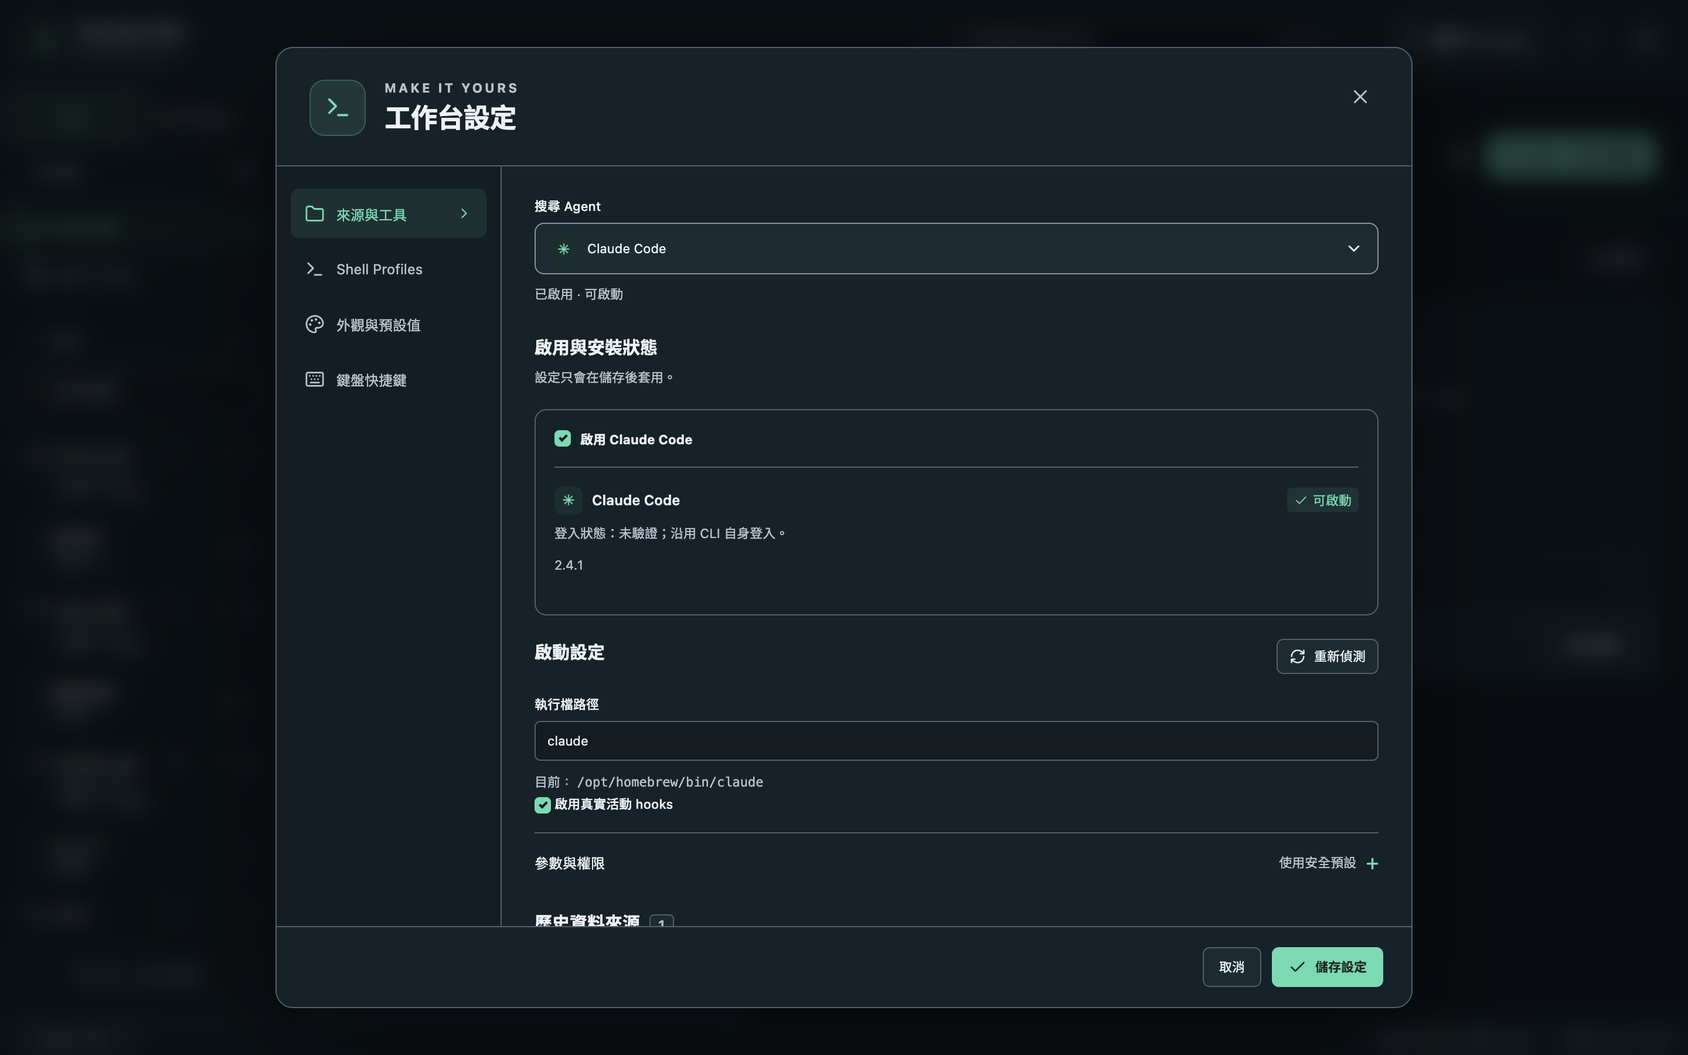
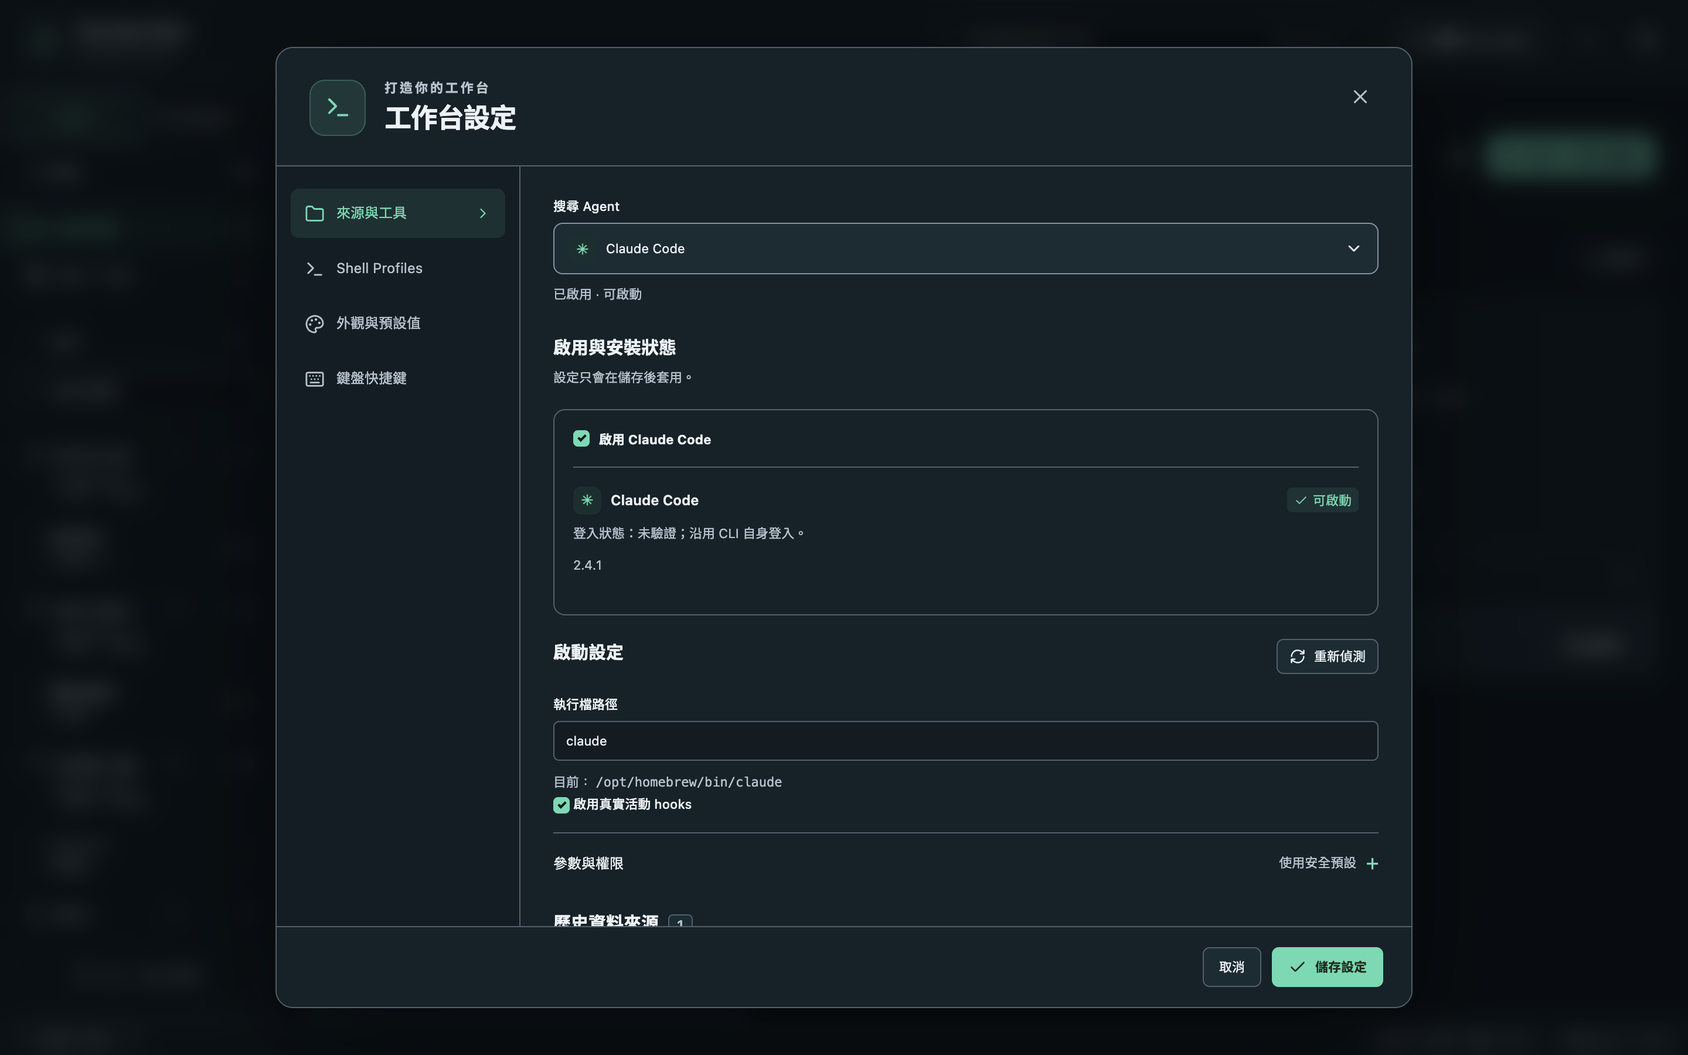
fix(ui): keep both languages readable at every window width
Add a layout audit that opens fifteen screens in English and Traditional
Chinese at 1440, 1280 and 1024 px and fails when control text is clipped
or spills out. Fix what it found: a shorter English label for the
Directories tab, wrapping overview statuses and settings navigation,
room for expanded history filters, the untranslated settings eyebrow, a
missing shortcut name, the empty shortcut chip in the command palette,
the outdated page name in the add-project hint and spacing in the
recycle bin. Regenerate every website screenshot and add one of the Git
workbench.

diff --git a/tests/browser/layout-audit.spec.ts b/tests/browser/layout-audit.spec.ts
@@ -1,0 +1,111 @@
+import { expect, test, type Page } from '@playwright/test';
+import { mkdirSync, writeFileSync } from 'node:fs';
+
+// Opens every main screen in English and Traditional Chinese at several window
+// widths and fails when a control's text is clipped or spills out of its box.
+// Long user data (paths, titles) may truncate with an ellipsis when a tooltip
+// carries the full text. Set LAYOUT_AUDIT_DIR to also save screenshots.
+const zh = () => test.info().project.name === 'zh-tw';
+const L = (en: string, zhText: string) => (zh() ? zhText : en);
+const widths = [1440, 1280, 1024];
+const bridge = 'http://127.0.0.1:1463';
+
+async function open(page: Page, git = false) {
+  await page.goto(`/tests/browser/showcase.html${git ? `?git=${encodeURIComponent(bridge)}` : ''}`);
+  await expect(page.locator('[data-app-shell]')).toHaveAttribute('data-backend-ready', 'true');
+}
+
+async function clippedText(page: Page) {
+  return page.evaluate(() => {
+    const selector = 'button, a, [role="tab"], [role="menuitem"], [role="option"], [role="radio"], label, legend, summary, h1, h2, h3, h4, th, dt, small, .settings-status, .git-chip, .eyebrow, .overview-status';
+    const found: string[] = [];
+    for (const el of document.querySelectorAll<HTMLElement>(selector)) {
+      const style = getComputedStyle(el);
+      const box = el.getBoundingClientRect();
+      if (!box.width || !box.height || style.display === 'inline' || style.visibility === 'hidden') continue;
+      if (el.closest('.xterm, .monaco-editor, [aria-hidden="true"]')) continue;
+      const clipped = el.scrollWidth > el.clientWidth + 1 || (style.overflowY !== 'visible' && el.scrollHeight > el.clientHeight + 1);
+      if (!clipped) continue;
+      if (style.textOverflow === 'ellipsis' && el.closest('[title]')) continue;
+      const text = (el.innerText || el.getAttribute('aria-label') || '').replace(/\s+/g, ' ').trim().slice(0, 80);
+      found.push(`${el.tagName.toLowerCase()}${el.className ? '.' + String(el.className).trim().split(/\s+/).join('.') : ''} "${text}" (${el.scrollWidth}>${el.clientWidth})`);
+    }
+    if (document.documentElement.scrollWidth > innerWidth + 1) found.push(`page scrolls horizontally (${document.documentElement.scrollWidth}>${innerWidth})`);
+    return [...new Set(found)];
+  });
+}
+
+type View = [name: string, show: (page: Page) => Promise<void>, git?: boolean];
+const settings = (section: [string, string]) => async (page: Page) => {
+  await page.getByRole('button', { name: L('Settings and sources', '設定與資料來源') }).click();
+  await page.getByRole('dialog').getByRole('button', { name: L(...section) }).first().click();
+};
+const views: View[] = [
+  ['projects', async () => undefined],
+  ['directories', async page => { await page.locator('#navigation-directories').click(); }],
+  ['history', async page => {
+    await page.locator('.directory-card-main').first().click();
+    await page.getByRole('button', { name: L('Sessions', '歷史 Sessions'), exact: true }).first().click();
+    await page.locator('.session-card-select').first().click();
+    await expect(page.locator('.transcript-message').first()).toBeVisible();
+  }],
+  ['history-filters', async page => {
+    await page.locator('.directory-card-main').first().click();
+    await page.getByRole('button', { name: L('Sessions', '歷史 Sessions'), exact: true }).first().click();
+    await page.getByRole('button', { name: L('Filter', '篩選') }).click();
+  }],
+  ['terminals', async page => {
+    await page.getByRole('button', { name: L('Open workspace harbor-api Rate limiting', '開啟工作區 harbor-api 速率限制') }).click();
+    await expect(page.locator('.xterm-screen').first()).toBeVisible();
+  }],
+  ['overview', async page => { await page.locator('.sidebar-global', { hasText: L('All workspaces', '全部工作區') }).click(); }],
+  ['settings-sources', settings(['Sources and tools', '來源與工具'])],
+  ['settings-profiles', settings(['Shell Profiles', 'Shell Profiles'])],
+  ['settings-appearance', settings(['Appearance and defaults', '外觀與預設值'])],
+  ['settings-shortcuts', settings(['Keyboard shortcuts', '鍵盤快捷鍵'])],
+  ['new-work', async page => {
+    await page.locator('.directory-card-main').first().click();
+    await page.locator('.header-buttons').getByRole('button', { name: L('New work', '新增工作') }).click();
+    await expect(page.getByRole('dialog')).toBeVisible();
+  }],
+  ['add-project', async page => { await page.getByRole('button', { name: L('Add / create project', '加入／建立專案') }).first().click(); }],
+  ['recycle-bin', async page => {
+    await page.locator('.directory-card-main').first().click();
+    await page.getByRole('button', { name: L('Recycle bin', '資源回收筒') }).click();
+    await expect(page.getByRole('dialog')).toBeVisible();
+  }],
+  ['command-palette', async page => {
+    await page.getByRole('button', { name: L('Search projects or run a command', '搜尋專案或執行命令') }).click();
+  }],
+  ['files', async page => {
+    await page.locator('.directory-card-main').first().click();
+    await page.getByRole('button', { name: 'Files', exact: true }).first().click();
+    await page.getByRole('treeitem', { name: /README\.md/ }).click();
+  }],
+  ['git', async page => {
+    await page.getByRole('button', { name: L('Open workspace harbor-api Rate limiting', '開啟工作區 harbor-api 速率限制') }).click();
+    await page.locator('.workspace-activity-bar').getByRole('button', { name: 'Git', exact: true }).click();
+    await expect(page.locator('#activity-git-panel').getByRole('radiogroup')).toBeVisible();
+  }, true],
+];
+
+for (const [name, show, git] of views) {
+  test(name, async ({ page, request }) => {
+    if (git) await request.post(`${bridge}/reset`);
+    const problems: string[] = [];
+    for (const width of widths) {
+      await page.setViewportSize({ width, height: 860 });
+      await open(page, git);
+      await show(page);
+      await page.waitForTimeout(400);
+      const dir = process.env.LAYOUT_AUDIT_DIR;
+      if (dir) {
+        mkdirSync(`${dir}/${test.info().project.name}`, { recursive: true });
+        await page.screenshot({ path: `${dir}/${test.info().project.name}/${name}-${width}.png` });
+      }
+      for (const problem of await clippedText(page)) problems.push(`${width}px ${problem}`);
+    }
+    if (process.env.LAYOUT_AUDIT_DIR) writeFileSync(`${process.env.LAYOUT_AUDIT_DIR}/${test.info().project.name}-${name}.txt`, problems.join('\n'));
+    expect(problems).toEqual([]);
+  });
+}

diff --git a/tests/browser/showcase.tsx b/tests/browser/showcase.tsx
@@ -168,6 +168,19 @@ const bootstrap: Bootstrap = {
   index: { running: false, processed: 1284, total: 1284, cancelled: false, errors: [], sources: [] },
 };
 
+const fileText = (path: string) => new TextEncoder().encode(path.endsWith('rateLimit.ts') ? [
+  "import { buckets } from './buckets';",
+  '',
+  'export function rateLimit({ capacity = 60, refillPerSecond = 1 } = {}) {',
+  '  return async (req, res, next) => {',
+  '    const bucket = await buckets.take(req.apiKey, { capacity, refillPerSecond });',
+  '    if (!bucket.ok) return tooManyRequests(res, bucket.retryAfter);',
+  '    next();',
+  '  };',
+  '}',
+  '',
+].join('\n') : `# ${path}\n\nSynthetic showcase file.\n`);
+
 mockWindows('main');
 mockIPC((command, payload = {}) => {
   const args = payload as Record<string, unknown>;
@@ -190,7 +203,40 @@ mockIPC((command, payload = {}) => {
       messages: transcript.map(([role, text], index) => ({ role, text, timestamp: ago(20 - index * 2), line: index + 1 })),
       hasMore: false, beforeLine: null, stale: false, warning: null,
     };
-    case 'list_trashed_sessions': return { items: [], total: 0 };
+    case 'list_trashed_sessions': return { catalogRevision: 'showcase', total: 1, items: [{
+      id: 'trash-1', session: { ...sessions[4], id: 's-trashed', title: L('Try a different logging library', '試用另一套 logging 函式庫') },
+      sourceRoot: '/Users/you/.codex', deletedAt: ago(60 * 3), unavailableReason: null }] };
+    case 'detect_history_sources': return { kind: args.kind, supported: true, message: null, candidates: [
+      { kind: args.kind, root: settings.sources.find(s => s.kind === args.kind)?.root ?? '/Users/you/.agent', status: 'found', configured: true, configuredSourceIds: [String(args.kind)] }] };
+    case 'preview_launch': {
+      const request = args.request as { kind: string; cwd?: string };
+      return { executable: request.kind === 'shell' ? '/bin/zsh' : `/opt/homebrew/bin/${request.kind}`, args: request.kind === 'shell' ? ['-l'] : [], cwd: request.cwd || `${home}/harbor-api` };
+    }
+    case 'list_workspace_files': return { nextOffset: null, entries: args.path ? [
+      { name: 'rateLimit.ts', path: 'src/http/rateLimit.ts', kind: 'file' },
+      { name: 'middleware.ts', path: 'src/http/middleware.ts', kind: 'file' },
+    ] : [
+      { name: 'src', path: 'src', kind: 'directory' }, { name: 'config', path: 'config', kind: 'directory' },
+      ...['README.md', 'package.json', 'tsconfig.json'].map(name => ({ name, path: name, kind: 'file' })),
+    ] };
+    case 'search_workspace_files': return { paths: ['src/http/rateLimit.ts', 'README.md'], truncated: false };
+    case 'inspect_workspace_file': {
+      const bytes = fileText(String(args.path));
+      return { path: args.path, sizeBytes: bytes.length, version: `showcase:${args.path}`, kind: 'text' };
+    }
+    case 'read_workspace_file_chunk': {
+      const bytes = fileText(String(args.path));
+      const offset = Number(args.offset), end = Math.min(bytes.length, offset + Number(args.maxBytes));
+      return { bytes: Array.from(bytes.subarray(offset, end)), eof: end === bytes.length };
+    }
+    case 'git_request': case 'git_hosting': {
+      // Optional real Git over a synthetic repo (examples/git_bridge.rs), as in the Git browser specs.
+      const bridge = params.get('git');
+      if (!bridge) throw new Error('Git is not part of this showcase view');
+      return fetch(`${bridge}/${command === 'git_request' ? 'git' : 'hosting'}`, { method: 'POST', headers: { 'content-type': 'application/json' }, body: JSON.stringify(args.request) })
+        .then(response => response.json() as Promise<{ ok?: unknown; error?: string }>)
+        .then(result => { if (result.error !== undefined) throw result.error; return result.ok; });
+    }
     case 'list_os_trashed_sessions': return [];
     case 'attach_runtime': {
       const target = runtimes.find(r => r.id === args.runtimeId)!;

diff --git a/src/components/workspace-overview.css b/src/components/workspace-overview.css
@@ -18,9 +18,9 @@
 .overview-card-open:hover { background: var(--surface-hover); }
 .overview-card-open:focus-visible { outline: 2px solid var(--accent); outline-offset: -2px; }
 .overview-card .project-initials { background: var(--card-project); }
-.overview-card-head { display: flex; align-items: center; gap: 8px; min-width: 0; }
+.overview-card-head { display: flex; flex-wrap: wrap; align-items: center; gap: 6px 8px; min-width: 0; }
 .overview-card-project { flex: 1; min-width: 0; overflow: hidden; text-overflow: ellipsis; white-space: nowrap; font-size: 13px; font-weight: 600; }
-.overview-status { flex: 0 0 auto; max-width: 50%; overflow: hidden; text-overflow: ellipsis; white-space: nowrap; padding: 1px 8px; border-radius: 10px; font-size: 11px; color: var(--muted); background: var(--surface-hover); }
+.overview-status { flex: 0 1 auto; max-width: 100%; overflow-wrap: anywhere; padding: 1px 8px; border-radius: 8px; line-height: 1.5; font-size: 11px; color: var(--muted); background: var(--surface-hover); }
 .overview-status.attention-input { color: var(--warning); background: var(--warning-bg); font-weight: 600; }
 .overview-status.attention-error { color: var(--danger); background: var(--danger-bg); }
 .overview-status.attention-working { color: var(--accent); background: var(--accent-bg); }
@@ -36,5 +36,7 @@
 .overview-split-hint { font-size: 12px; color: var(--muted); }
 .overview-split button { display: inline-flex; align-items: center; gap: 6px; min-height: 32px; }
 .overview-select { position: absolute; top: 10px; right: 12px; display: inline-flex; align-items: center; gap: 4px; padding: 2px 6px; border-radius: 6px; background: var(--surface); font-size: 11px; color: var(--muted); }
-.overview-card:has(.overview-select) .overview-status { margin-right: 52px; }
+/* Reserve room for the absolutely positioned side-by-side checkbox; long statuses wrap below the name. */
+.overview-card:has(.overview-select) .overview-card-head { padding-right: 104px; }
+.overview-card-head .overview-card-project { flex-basis: 40%; }
 

diff --git a/tests/browser/showcase.spec.ts b/tests/browser/showcase.spec.ts
@@ -6,8 +6,10 @@ import { mkdirSync } from 'node:fs';
 const zh = () => test.info().project.name === 'zh-tw';
 const L = (en: string, zhText: string) => (zh() ? zhText : en);
 
-async function open(page: Page) {
-  await page.goto('/tests/browser/showcase.html');
+const bridge = 'http://127.0.0.1:1472';
+
+async function open(page: Page, git = false) {
+  await page.goto(`/tests/browser/showcase.html${git ? `?git=${encodeURIComponent(bridge)}` : ''}`);
   await expect(page.locator('[data-app-shell]')).toHaveAttribute('data-backend-ready', 'true');
 }
 
@@ -51,4 +53,15 @@ test('settings', async ({ page }) => {
   await page.getByRole('button', { name: L('Settings and sources', '設定與資料來源') }).click();
   await expect(page.getByRole('dialog')).toBeVisible();
   await shot(page, 'settings');
+});
+
+test('git workbench', async ({ page, request }) => {
+  await request.post(`${bridge}/reset`);
+  await open(page, true);
+  await page.getByRole('button', { name: L('Open workspace harbor-api Rate limiting', '開啟工作區 harbor-api 速率限制') }).click();
+  await page.locator('.workspace-activity-bar').getByRole('button', { name: 'Git', exact: true }).click();
+  const panel = page.locator('#activity-git-panel');
+  await panel.getByRole('button', { name: new RegExp(`^f\\.txt${L(', Modified', '，已修改')}`) }).click();
+  await expect(page.locator('.git-document').getByText('BETA').first()).toBeVisible();
+  await shot(page, 'git');
 });

diff --git a/playwright.layout-audit.config.ts b/playwright.layout-audit.config.ts
@@ -1,0 +1,21 @@
+import { defineConfig } from '@playwright/test';
+
+// Clipped or overflowing text in both interface languages (see layout-audit.spec.ts).
+export default defineConfig({
+  testDir: './tests/browser', testMatch: 'layout-audit.spec.ts', workers: 1, timeout: 90_000,
+  outputDir: 'test-results/layout-audit',
+  use: {
+    browserName: 'chromium', channel: process.env.PLAYWRIGHT_CHROMIUM_EXECUTABLE ? undefined : 'chrome',
+    launchOptions: { chromiumSandbox: true, executablePath: process.env.PLAYWRIGHT_CHROMIUM_EXECUTABLE },
+    headless: true, colorScheme: 'dark', baseURL: 'http://127.0.0.1:1462',
+  },
+  projects: [
+    { name: 'en', use: { locale: 'en-US' } },
+    { name: 'zh-tw', use: { locale: 'zh-TW' } },
+  ],
+  webServer: [
+    { command: 'npm run dev:web -- --port 1462', url: 'http://127.0.0.1:1462', reuseExistingServer: false },
+    { env: { SESSIONBAY_GIT_BRIDGE_ORIGIN: 'http://127.0.0.1:1462' }, command: `${process.env.CARGO ?? 'cargo'} run --quiet --manifest-path src-tauri/Cargo.toml --no-default-features --example git_bridge -- 1463`,
+      url: 'http://127.0.0.1:1463/health', reuseExistingServer: false, timeout: 600_000 },
+  ],
+});

diff --git a/src/App.tsx b/src/App.tsx
@@ -1476,7 +1476,7 @@ export default function App() {
                 }
               }}>
               {page === 'projects' ? <Folder size={16} aria-hidden="true" /> : <Compass size={16} aria-hidden="true" />}
-              {page === 'projects' ? t('Projects') : t('All directories')}
+              {page === 'projects' ? t('Projects') : t('All directories (tab)')}
               <span>{page === 'projects' ? projectCount : directoryCount}</span>
             </button>)}
           </div>
@@ -2307,7 +2307,7 @@ export default function App() {
             options={[
               ...commands.filter(command => command.id !== 'command-palette').map(command => ({
                 id: `command-${command.id}`, label: command.label, search: command.label,
-                detail: <kbd>{command.shortcut}</kbd>, disabled: command.disabled,
+                detail: command.shortcut ? <kbd>{command.shortcut}</kbd> : undefined, disabled: command.disabled,
                 run: () => { if (!command.id.startsWith('theme-')) closePalette(); command.run(); },
               })),
               ...projects.filter(project => project.curated)

diff --git a/src/components/SessionTrash.tsx b/src/components/SessionTrash.tsx
@@ -53,7 +53,7 @@ export function SessionTrash({ onClose, onChanged, refreshToken }: {
     {inspectionTarget ? <OsTrashReview key={inspectionTarget.id} entry={inspectionTarget}
       onClose={() => setInspectionTarget(null)} onMoved={moved} /> : <>
     <p>{t('These conversations are hidden from Session Bay history and search, and you can restore them one by one. The original agent history is kept and running work is not affected. To really delete the files, use "Move to system trash…" on an entry.')}</p>
-    <p className="muted">{t('Rescanning or rebuilding the index does not empty the recycle bin. To really delete, move each session\'s agent files to the system trash.')}</p>
+    <p className="muted session-trash-note">{t('Rescanning or rebuilding the index does not empty the recycle bin. To really delete, move each session\'s agent files to the system trash.')}</p>
     {error && <p className="inline-error" role="alert">{error}</p>}
     {loading && <p role="status">{t('Loading recycle bin…')}</p>}
     {!loading && !error && !page.error && !page.total && <p>{t('The recycle bin is empty.')}</p>}

diff --git a/playwright.showcase.config.ts b/playwright.showcase.config.ts
@@ -6,11 +6,15 @@ export default defineConfig({
   outputDir: 'test-results/showcase',
   use: {
     browserName: 'chromium', channel: 'chrome', headless: true, viewport: { width: 1440, height: 900 }, deviceScaleFactor: 2,
-    colorScheme: 'dark', baseURL: 'http://127.0.0.1:1451',
+    colorScheme: 'dark', baseURL: 'http://127.0.0.1:1471',
   },
   projects: [
     { name: 'en', use: { locale: 'en-US' } },
     { name: 'zh-tw', use: { locale: 'zh-TW' } },
   ],
-  webServer: { command: 'npm run dev:web -- --port 1451', url: 'http://127.0.0.1:1451', reuseExistingServer: false },
+  webServer: [
+    { command: 'npm run dev:web -- --port 1471', url: 'http://127.0.0.1:1471', reuseExistingServer: false },
+    { env: { SESSIONBAY_GIT_BRIDGE_ORIGIN: 'http://127.0.0.1:1471' }, command: `${process.env.CARGO ?? 'cargo'} run --quiet --manifest-path src-tauri/Cargo.toml --no-default-features --example git_bridge -- 1472`,
+      url: 'http://127.0.0.1:1472/health', reuseExistingServer: false, timeout: 600_000 },
+  ],
 });

diff --git a/src/components/SettingsPanel.tsx b/src/components/SettingsPanel.tsx
@@ -56,6 +56,7 @@ const shortcutNames: Record<string, string> = {
   'toggle-project-sessions': t('Show / hide project sessions'),
   'toggle-project-files': t('Show / hide project files'),
   'toggle-project-git': t('Show / hide project Git'),
+  'toggle-workspace-overview': t('Open / leave the all-workspaces overview'),
   'new-terminal': t('Open a terminal'),
   'new-agent': t('Start agent work'),
   'search-sessions': t('Search sessions'),
@@ -581,7 +582,7 @@ export function SettingsPanel({
           </div>
           <div>
             <span className="settings-eyebrow">
-              {onboarding ? 'WELCOME TO SESSION BAY' : 'MAKE IT YOURS'}
+              {onboarding ? t('WELCOME TO SESSION BAY') : t('MAKE IT YOURS')}
             </span>
             <h2 id="settings-title">{onboarding ? t('Bring your work back to one place.') : t('Workbench settings')}</h2>
             {onboarding && <p id="settings-description">{t('Connect your local agent history and set up the environment you like.')}</p>}

diff --git a/src/components/ProjectDialog.tsx b/src/components/ProjectDialog.tsx
@@ -42,7 +42,7 @@ export function ProjectDialog({ onSaved, onClose }: {
         </div>
         <p className="dialog-description">{mode === 'create'
           ? t('Creates a new folder in the parent folder you choose and adds it to your projects. Existing folders are never overwritten.')
-          : t('Adds only the folder you choose to your projects. History found automatically stays browsable in "All sessions".')}</p>
+          : t('Adds only the folder you choose to your projects. History found automatically stays browsable in "All directories".')}</p>
         <DirectoryPathField key={mode} label={mode === 'create' ? t('Parent folder path') : t('Folder path')}
           required disabled={busy || !!saved.current} autoFocus value={path}
           placeholder={t('/Users/you/projects or /home/you/projects')} onChange={setPath} />

diff --git a/src/project-files-workspace.css b/src/project-files-workspace.css
@@ -23,7 +23,8 @@
 .activity-history-browser .history-agent-filter { max-width: 100%; }
 .activity-history-browser .filter-bar > * { max-width: 100%; }
 .activity-history-browser .empty-state { padding: 20px 12px; }
-.activity-history-controls { flex: 0 1 auto; min-height: 0; max-height: 50%; overflow: auto; }
+/* Expanded filters need more than half of a short panel; the list keeps the rest. */
+.activity-history-controls { flex: 0 1 auto; min-height: 0; max-height: 70%; overflow: auto; }
 .activity-history-browser .search-field input { min-width: 0; }
 /* Left project navigation remains independent of right-hand tools. */
 .sidebar .navigation-tabs { display: flex; margin-bottom: 12px; gap: 0; border-radius: 0; padding: 0; }

diff --git a/src/components/settings.css b/src/components/settings.css
@@ -87,7 +87,7 @@
 }
 .settings-layout {
   display: grid;
-  grid-template-columns: 192px minmax(0, 1fr);
+  grid-template-columns: 208px minmax(0, 1fr);
   min-height: 0;
   flex: 1;
 }
@@ -111,10 +111,13 @@
   text-align: left;
   font: inherit;
   font-size: 12px;
-  white-space: nowrap;
+  line-height: 1.35;
 }
+.settings-nav > button > svg { flex-shrink: 0; }
+/* Longer translations wrap instead of pushing the chevron out of the button. */
 .settings-nav > button > span:first-of-type {
   flex: 1;
+  min-width: 0;
 }
 .settings-nav > button:hover {
   background: var(--settings-surface);
